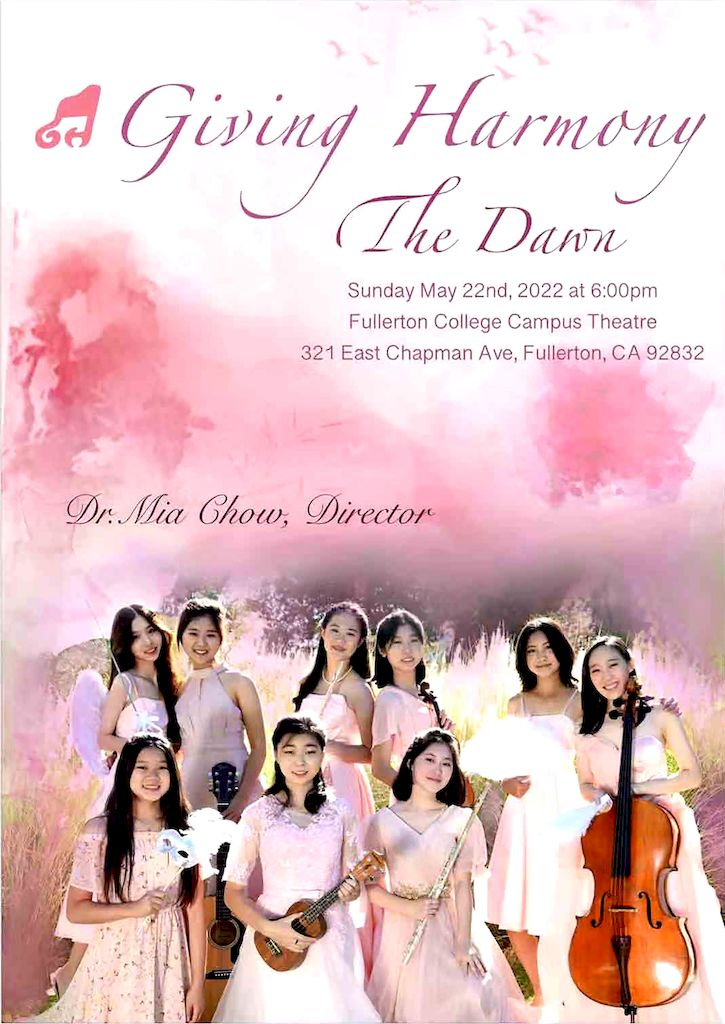
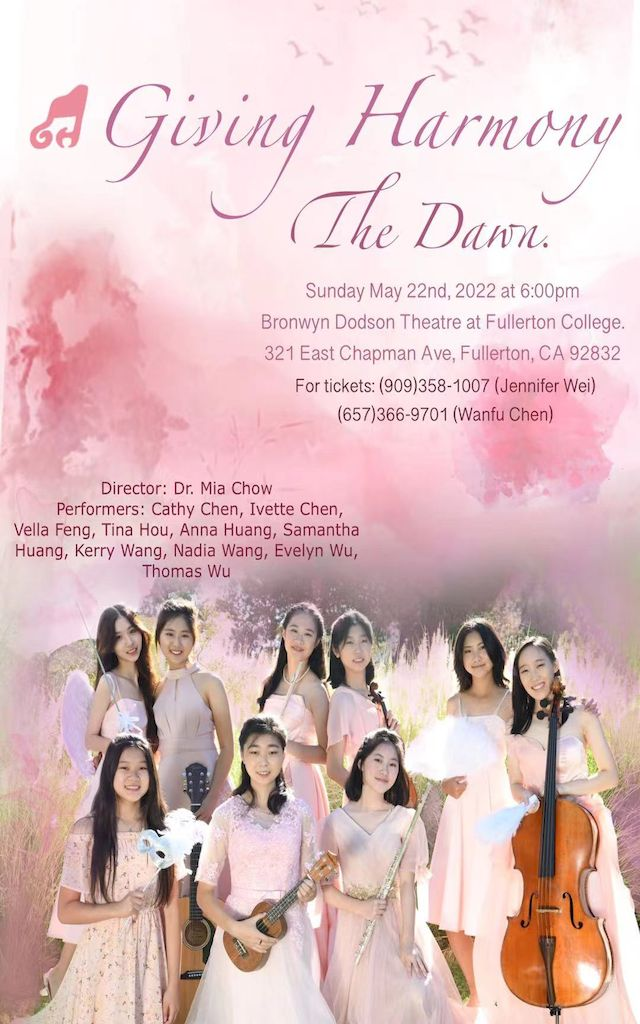
add Katherine and update posters (#20)

diff --git a/about.js b/about.js
@@ -1,7 +1,11 @@
 const members = [
   {
+    name: 'Katherine',
+    title: 'Guest pianist',
+    bio: "Katherine Wong is an undergraduate student at Stanford University studying Symbolic Systems (Computer Science + Psychology, Philosophy, and Linguistics) and English. In college, she is involved in Stanford's Chamber Music program, where she performs in a piano quartet. Katherine has been playing the piano since the age of five; at eight years old, Katherine made her debut at the Lincoln Center in New York City. Since then, she has performed at numerous prestigious concert halls around the world, including Carnegie Hall in New York City (4x), Mozarteum in Austria, Concertgebouw in the Netherlands, Megaron Concert Hall in Greece, and Parco della Musica in Italy. She has been recognized as a Panel Masters award winner in the MTAC Certificate of Merit Program, nominated as an Orange County Artist of the Year, named a California Young Artist Scholar, and awarded top winner prizes at the American Fine Arts Festival International Music Competition, Bremen International Piano Competition (Japan), North International Piano Competition (Sweden). In addition, Katherine was selected to perform a solo charity concert at the National Taipei National Concert Hall during summer of 2021 before COVID-19. She also plays the cello and has been recognized as a Level 10 Advanced Cello award winner of MTAC's Certificate of Merit Program."
+  }, {
     name: 'Ivette Chen, founding member',
-    title: 'chief supervisor, former co-president (2019 -- 2022), cellist',
+    title: 'chief supervisor, former co-president (2019 -- 2022), cellist, pianist',
     bio: "As a semifinalist of the XI International Tchaikovsky Competition for Young Musicians, Ivette Chen was one of six cellists to represent the US. Ivette has been a prizewinner for many international competitions and has performed at various venues, including Carnegie's Stern Auditorium, Irvine's Barclay Theatre, and UCLA's Royce Hall for her teacher Lynn Harrell in his “In Remembrance” Concert. Ivette is a freshman at Harvard University and is concentrating in neuroscience. She is also involved in the Harvard-Radcliffe Orchestra, Harvard Asian American Dance Troupe, Harvard Synapse as Director of Publicity and Technology, and conducting brain research at Mass General Hospital. She enjoys giving back to the community through music and aspires to tie music into medicine to help prevent neurological disorders in the future.",
     slogan: "There are people in the world who do not have the privileges that are present in our life. Let's help those people gain those benefits. Each note played out extends a helping hand."
   }, {
@@ -52,7 +56,7 @@ const members = [
     title: 'oboist, pianist',
     bio: "David Wong, age fourteen, is a freshman at the Orange County School of the Arts (OCSA). David is an oboist for the prestigious Pacific Youth Symphony Orchestra (PSYO). He was selected for the California All-State Honor Band and California All-Southern Honor Band in 2022. David has won numerous awards, including the Concordia University Music Competition and the American Fine Arts Festival International Concerto Competition for which he performed at Carnegie Hall in June 2022. In addition to playing the oboe, David is also an accomplished pianist. He has advanced to Level 10 in the MTAC's Certificate of Merit Program and had his debut performance at Carnegie Hall at age 11. David is passionate about harnessing music to serve his communities."
   }, {
-    name: 'Samantha Luo',
+    name: 'Samantha Luo, member since 2022',
     title: 'pianist',
     bio: 'Samantha Luo is a student at Troy High School and has played piano for almost 6 years. Outside of academics and music, she enjoys reading, scrapbooking, and watching sitcoms. She hopes to share with others the sense of beauty and enjoyment that she finds in music.'
   }

diff --git a/index.html b/index.html
@@ -124,8 +124,9 @@
       vuetify: new Vuetify(),
       data: () => {
         let rawItems = [
+          ['./img/journey/journey.jpg', 'The Journey', 'Guide Dogs of America', 'https://www.guidedogsofamerica.org/', 'Mar 26, 2023'],
           [ './img/dawn/dawn.jpg', 'The Dawn', 'Children\'s Health Orange County', 'https://raiseup.choc.org/event/ghthedawnconcert', 'May 22, 2022' ],
-          [ './img/echo/echo.jpg', 'The Echo', 'Malala Foundation', 'https://malala.org', 'Dec 5, 2021' ],
+          // [ './img/echo/echo.jpg', 'The Echo', 'Malala Foundation', 'https://malala.org', 'Dec 5, 2021' ],
         ];
         let items = [];
 
